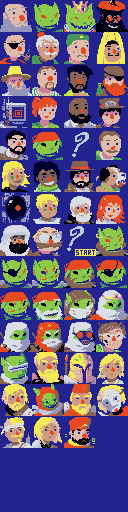
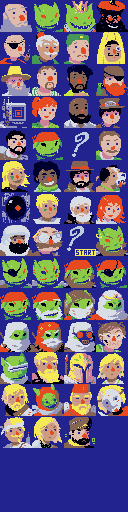
update script

Changed region(s): [[0.5, 0.8125, 0.7188, 0.875]]

diff --git a/source/data/character_art.h b/source/data/character_art.h
@@ -9,7 +9,7 @@
 //	+ 1024 tiles Metatiled by 4x4 not compressed
 //	Total size: 32 + 32768 = 32800
 //
-//	Time-stamp: 2026-02-10, 08:40:34
+//	Time-stamp: 2026-02-10, 09:23:03
 //	Exported by Cearn's GBA Image Transmogrifier, v0.9.2
 //	( http://www.coranac.com/projects/#grit )
 //
